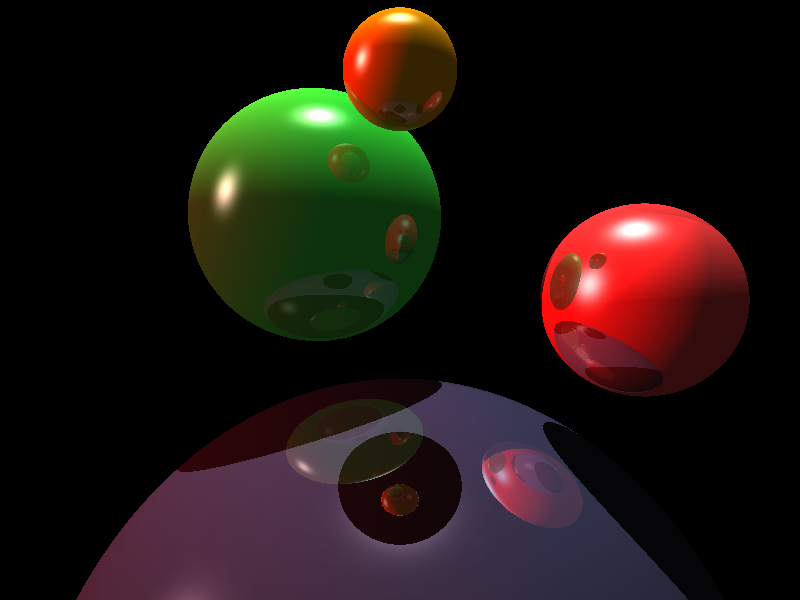
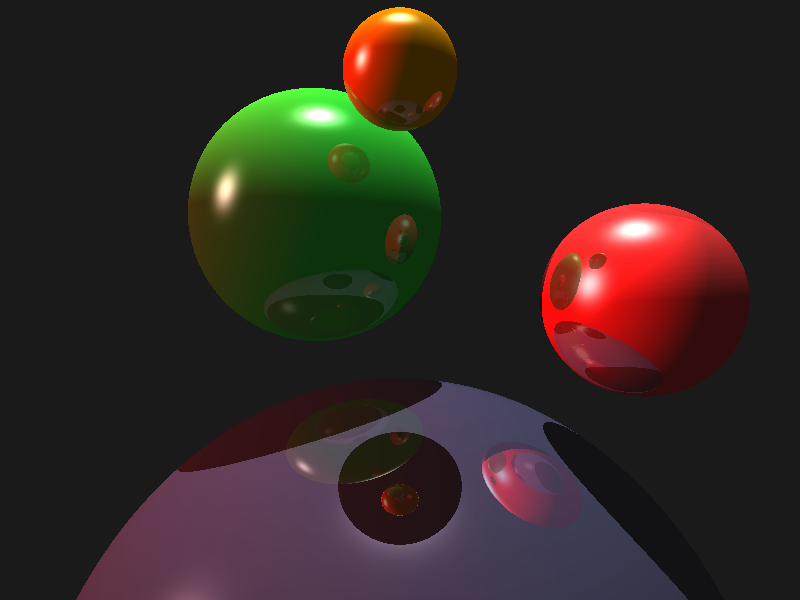
Update

diff --git a/main.py b/main.py
@@ -10,11 +10,12 @@ from light import Light
 from phong import Phong
 
 camera = Camera(Point.ORIGIN - Vector.K * 10, Vector.J, Vector.K)
-scene = Scene(camera, 800, 600, 70, Color.BLACK)
+scene = Scene(camera, 800, 600, 70, Color.WHITE * 0.1)
 
 lights = [
     Light(Point(0, 100, 0), Color.WHITE * 0.1, Color.WHITE, Color.WHITE),
-    Light(Point(-100, 30, -20), Color.WHITE * 0.1, Color.RED, Color(255, 200, 200))
+    Light(Point(-100, 30, -20), Color.WHITE * 0.1,
+          Color.RED, Color(255, 200, 200))
 ]
 
 objects = [
@@ -80,4 +81,3 @@ for u in range(img.size[0]):
         pixels[u, v] = tuple(result[v][u])
 
 img.save('output.png')
-

diff --git a/phong.py b/phong.py
@@ -1,3 +1,6 @@
+from color import Color
+
+
 class Phong:
     def __init__(self, ambient, diffuse, specular,
                  shininess, reflectivity=0, reflect_bg=False):
@@ -7,3 +10,7 @@ class Phong:
         self.shininess = shininess
         self.reflectivity = reflectivity
         self.reflect_bg = reflect_bg
+
+
+Phong.mirror = Phong(
+    Color.BLACK, Color.BLACK, Color.WHITE, 50, 0.8, reflect_bg=True)
